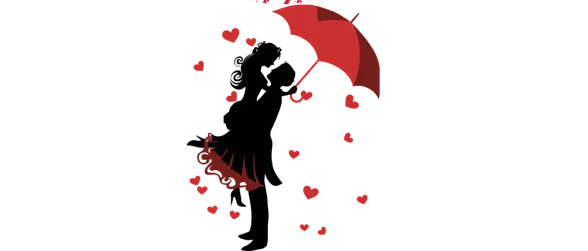
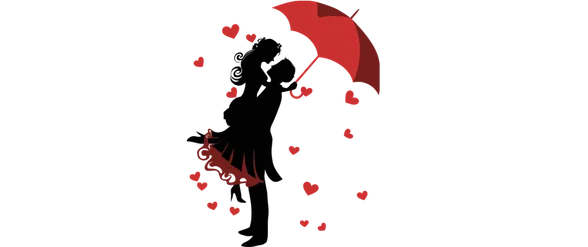
New pages 1, 3, A + again page + gift hearts

diff --git a/index.html b/index.html
@@ -91,6 +91,8 @@
     background: #fff8; font-size: 1.2rem; display: none;
   }
   .confetti { position: fixed; top: -12px; width: 9px; height: 14px; z-index: 9; pointer-events: none; animation: fall linear forwards; }
+  .heart { position: fixed; z-index: 9; pointer-events: none; font-style: normal; translate: -50% -50%; animation: burst 1.3s cubic-bezier(.1,.8,.3,1) both; }
+  @keyframes burst { 0% { transform: scale(0); opacity: 1 } 70% { opacity: 1 } 100% { transform: translate(var(--x), var(--y)) scale(1.2) rotate(25deg); opacity: 0 } }
   @keyframes fall { to { transform: translate(var(--x), 110vh) rotate(720deg) } }
 
   @media (prefers-reduced-motion: reduce) {
@@ -107,10 +109,10 @@
 <audio id="song" src="song.mp3" loop preload="auto"></audio>
 
 <section id="s1">
-  <div class="stage" style="--ar:702/1129">
-    <img class="a-drop float" style="left:14.81%;top:0.00%;width:61.97%" src="img/1-title.webp" alt="">
-    <img class="a-fade d1" style="left:0.00%;top:48.18%;width:100.00%" src="img/1-sub.webp" alt="">
-    <button class="a-pop d2 wiggle tap go" style="left:32.76%;top:70.42%;width:39.60%" aria-label="open your surprise"><img src="img/1-gift.webp" alt=""></button>
+  <div class="stage" style="--ar:836/1122">
+    <img class="a-drop float" style="left:0.00%;top:0.00%;width:100.00%" src="img/1-title.webp" alt="">
+    <img class="a-fade d1" style="left:25.12%;top:49.82%;width:42.70%" src="img/1-sub.webp" alt="">
+    <button class="a-pop d2 wiggle tap go" style="left:31.94%;top:70.23%;width:33.25%" aria-label="open your surprise"><img src="img/1-gift.webp" alt=""></button>
   </div>
 </section>
 
@@ -126,7 +128,7 @@
 <section id="s3">
   <div class="stage" style="--ar:1177/1479">
     <img class="a-zoom" style="left:0.00%;top:0.00%;width:100.00%" src="img/3-art.webp" alt="">
-    <button class="a-pop d2 pulse tap go" style="left:0.00%;top:65.99%;width:100.00%" aria-label="continue"><img src="img/3-couple.webp" alt=""></button>
+    <button class="a-pop d2 pulse tap go" style="left:0.00%;top:66.53%;width:100.00%" aria-label="continue"><img src="img/3-couple.webp" alt=""></button>
   </div>
 </section>
 
@@ -148,9 +150,9 @@
 </section>
 
 <section id="s6">
-  <div class="stage" style="--ar:1175/1405">
-    <img class="a-drop" style="left:0.00%;top:0.00%;width:84.26%" src="img/6-note.webp" alt="">
-    <button class="a-pop d2 pulse tap go" style="left:87.06%;top:89.18%;width:12.94%" aria-label="next"><img src="img/6-next.webp" alt=""></button>
+  <div class="stage" style="--ar:990/1547">
+    <img class="a-drop" style="left:0.00%;top:0.00%;width:100.00%" src="img/6-note.webp" alt="">
+    <button class="a-pop d2 pulse tap go" style="left:42.32%;top:90.17%;width:15.35%" aria-label="next"><img src="img/6-next.webp" alt=""></button>
   </div>
 </section>
 
@@ -188,7 +190,7 @@
 </section>
 
 <section id="s12">
-  <div class="stage" style="--ar:1267/1153">
+  <div class="stage" style="--ar:802/1108">
     <button class="a-pop pulse tap go" style="left:0.00%;top:0.00%;width:100.00%" aria-label="continue"><img src="img/12-pic.webp" alt=""></button>
   </div>
 </section>
@@ -208,9 +210,16 @@
 </section>
 
 <section id="s15">
+  <div class="stage" style="--ar:1548/1058">
+    <img class="a-zoom float" style="left:0.00%;top:0.00%;width:100.00%" src="img/15-text.webp" alt="">
+    <button class="a-pop d2 pulse tap go" style="left:43.35%;top:81.95%;width:12.98%" aria-label="next"><img src="img/15-next.webp" alt=""></button>
+  </div>
+</section>
+
+<section id="s16">
   <div class="stage" style="--ar:1512/1411">
-    <img class="a-drop" style="left:0.00%;top:0.00%;width:100.00%" src="img/15-title.webp" alt="">
-    <img class="a-zoom d1 beat" style="left:18.65%;top:44.86%;width:61.51%" src="img/15-heart.webp" alt="">
+    <img class="a-drop" style="left:0.00%;top:0.00%;width:100.00%" src="img/16-title.webp" alt="">
+    <img class="a-zoom d1 beat" style="left:18.65%;top:44.86%;width:61.51%" src="img/16-heart.webp" alt="">
   </div>
   <button class="replay">↺ replay</button>
 </section>
@@ -219,7 +228,7 @@
   const $ = s => document.querySelector(s);
   const song = $('#song'), mute = $('.mute');
   const no = $('.no'), noHome = no.getAttribute('style');
-  let cur = 0, tries = 0;
+  let cur = 0, tries = 0, opening = false;
 
   // 3 → 5 skips the 404 page; 404 "hmm" → 3; everything else → next
   const nextOf = n => ({ 3: 5, 4: 3 })[n] || n + 1;
@@ -229,7 +238,7 @@
     $('#s' + n).classList.add('on');
     cur = n;
     if (n === 2) { tries = 0; no.setAttribute('style', noHome); }
-    if (n === 15) confetti();
+    if (n === 16) confetti();
     if (push) history.pushState({ n }, '');
   }
   // phone back button = previous slide
@@ -242,7 +251,13 @@
     const btn = e.target.closest('.go');
     // slides 3 and 8–13: tapping anywhere also works, in case she misses the word
     if (btn || (cur === 3 || (cur >= 8 && cur <= 13))) {
-      if (cur === 1) { song.play().then(() => mute.style.display = 'block').catch(() => {}); confetti(); }
+      if (cur === 1) {
+        if (opening) return;
+        opening = true;
+        song.play().then(() => mute.style.display = 'block').catch(() => {});
+        burst(btn.getBoundingClientRect()); confetti();
+        return setTimeout(() => { opening = false; show(2); }, 1400);
+      }
       show(nextOf(cur));
     }
   });
@@ -262,6 +277,26 @@
     song.muted = !song.muted;
     mute.textContent = song.muted ? '🔇' : '🔊';
   });
+
+  // hearts + sparkles fly out of the gift
+  function burst(r) {
+    const cx = r.left + r.width / 2, cy = r.top + r.height / 2;
+    const bits = ['💖', '❤', '💕', '💗', '✨', '🎆', '💘'];
+    for (let i = 0; i < 40; i++) {
+      const h = document.createElement('i');
+      const a = Math.random() * Math.PI * 2, d = 120 + Math.random() * 220;
+      h.className = 'heart';
+      h.textContent = bits[i % bits.length];
+      h.style.left = cx + 'px';
+      h.style.top = cy + 'px';
+      h.style.fontSize = 16 + Math.random() * 22 + 'px';
+      h.style.setProperty('--x', Math.cos(a) * d + 'px');
+      h.style.setProperty('--y', Math.sin(a) * d + 'px');
+      h.style.animationDelay = Math.random() * .25 + 's';
+      document.body.append(h);
+      h.addEventListener('animationend', () => h.remove());
+    }
+  }
 
   function confetti() {
     const colors = ['#FF4FA3', '#FFE066', '#5CE1E6', '#E57373', '#C77DFF', '#FF8A65'];
